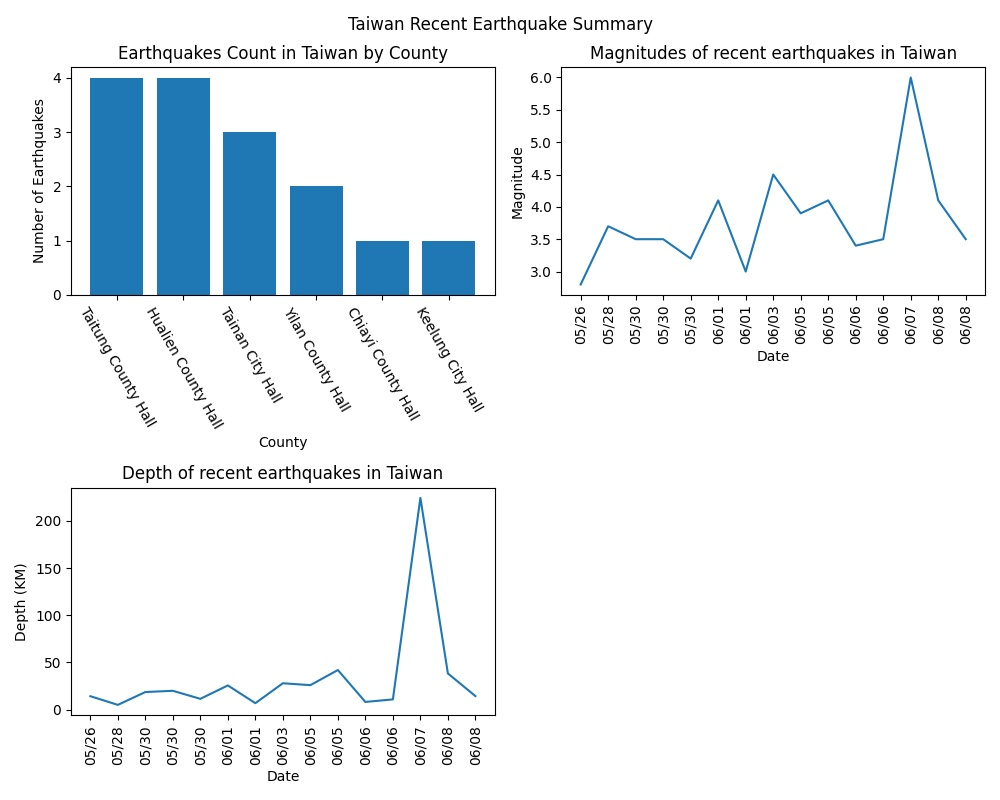
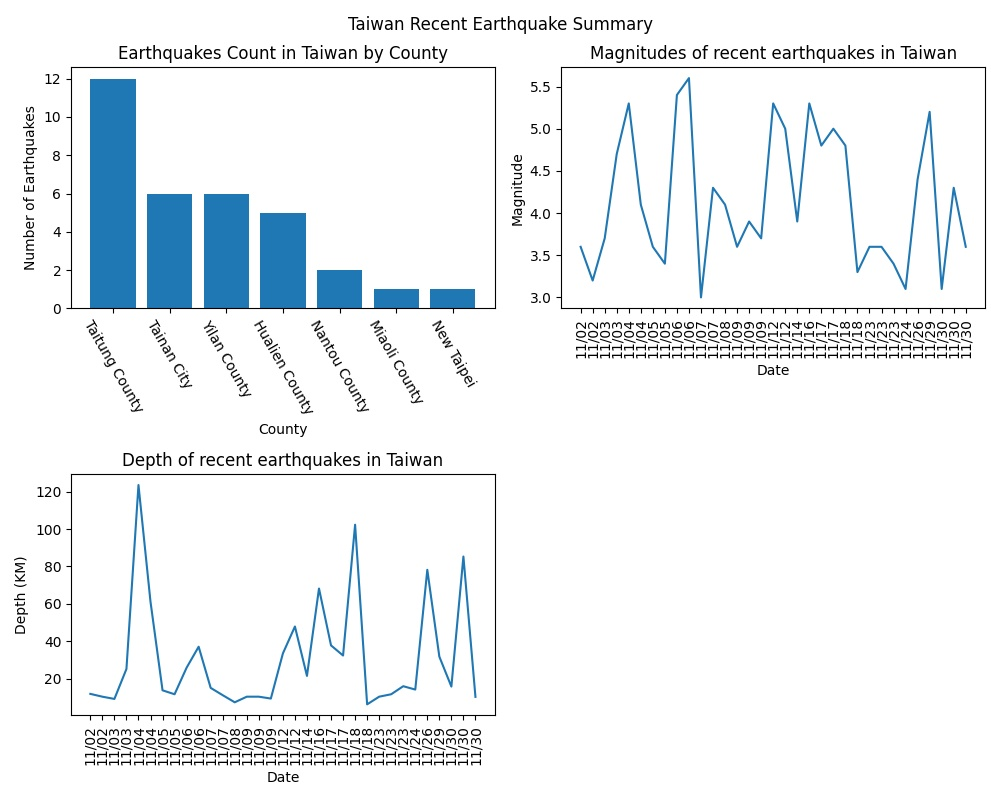
query information parsed

diff --git a/main.py b/main.py
@@ -35,17 +35,14 @@ def main():
             print("Out of bounds.")
         else:
             if choice==0:
-                viewRecent(parsed_df)
+                viewInfo(parsed_df)
             elif choice==1:
                 queryMonth()
             elif choice==2:
                 break
 
-
-
-
-
-def viewRecent(parsed_df):
+#function that is used to plot the information that it is given
+def viewInfo(parsed_df, title):
     print(parsed_df)
     labels=parsed_df['Date'].to_list()
     magnitudes=parsed_df['Magnitude'].to_list()
@@ -58,25 +55,25 @@ def viewRecent(parsed_df):
 
     #plt section
     fig=plt.figure(num=1, figsize=(10,8))
-    fig.suptitle('Taiwan Recent Earthquake Summary')
+    fig.suptitle('Taiwan {} Earthquake Summary'.format(title))
     plt.subplot(221)
     plt.bar(np.arange(len(names)),values, tick_label=names)
     plt.xlabel('County')
     plt.ylabel("Number of Earthquakes")
     plt.xticks(rotation=300)
-    plt.title("Earthquakes Count in Taiwan by County")
+    plt.title("{} earthquake Count in Taiwan by County".format(title))
     plt.subplot(222)
     plt.plot(x,magnitudes)
     plt.xlabel('Date')
     plt.ylabel("Magnitude")
     plt.xticks(x,labels,rotation=90)
-    plt.title("Magnitudes of recent earthquakes in Taiwan")
+    plt.title("Magnitudes of {} earthquakes in Taiwan".format(title))
     plt.subplot(223)
     plt.plot(x,depth)
     plt.xlabel('Date')
     plt.ylabel("Depth (KM)")
     plt.xticks(x,labels,rotation=90)
-    plt.title("Depth of recent earthquakes in Taiwan")
+    plt.title("Depth of {} earthquakes in Taiwan".format(title))
     fig.tight_layout()
     plt.savefig('410821332_test.jpg', dpi=100)
 
@@ -119,7 +116,49 @@ def parseDetails(details):
     new_df=pd.DataFrame(reconstructed_details)
     return new_df
 
-def queryMonth():
+def separateLocation(location_list):
+    returned_locations = []
+    for location in location_list: 
+        parts=location.split()
+        returned_locations.append(parts[7]+' '+parts[8])
+    
+    return returned_locations
+
+def separateDateAndTime(date_time_info):
+    times=[]
+    dates=[]
+    for date_time in date_time_info:
+        parts=date_time.split()
+        dates.append(parts[0].replace('-','/'))
+        times.append(parts[1])
+    print(dates)
+    print(times)
+
+    return dates, times
+
+def parseQueryDetails(details):
+    magnitudes=details['ML'].to_list()
+    depth_list = details['Depth'].to_list()
+    location_information = details['Location']
+    date_time_info= details['GMT+8(Taiwan)']
+    locations=separateLocation(location_information)
+    dates,times=separateDateAndTime(date_time_info)
+    dates.reverse()
+    times.reverse()
+    locations.reverse()
+    magnitudes.reverse()
+    depth_list.reverse()
+    reconstructed_details={
+        "Location":locations,
+        "Date":dates,
+        "Time":times,
+        "Depth":depth_list,
+        "Magnitude":magnitudes
+    }
+    new_df=pd.DataFrame(reconstructed_details)
+    return new_df
+
+def getQueryInformation():
     year = input('Please enter a year: ')
     month=input('Please enter the month: ')
     search_query = month+'-'+year
@@ -132,11 +171,18 @@ def queryMonth():
     search_field.clear()
     time.sleep(1)
     search_field.send_keys(search_query)
-    time.sleep(2)
+    time.sleep(1)
     search_field.send_keys(Keys.RETURN)
     time.sleep(1)
-    test=pd.read_html(browser.page_source)[1]
-    print(test)
+    data=pd.read_html(browser.page_source)[1]
+
+    return data
+
+def queryMonth():
+    data = getQueryInformation()
+    parsed_data=parseQueryDetails(data)
+    print(parsed_data)
+    viewInfo(parsed_data)
     
 if __name__=='__main__':
     main()
